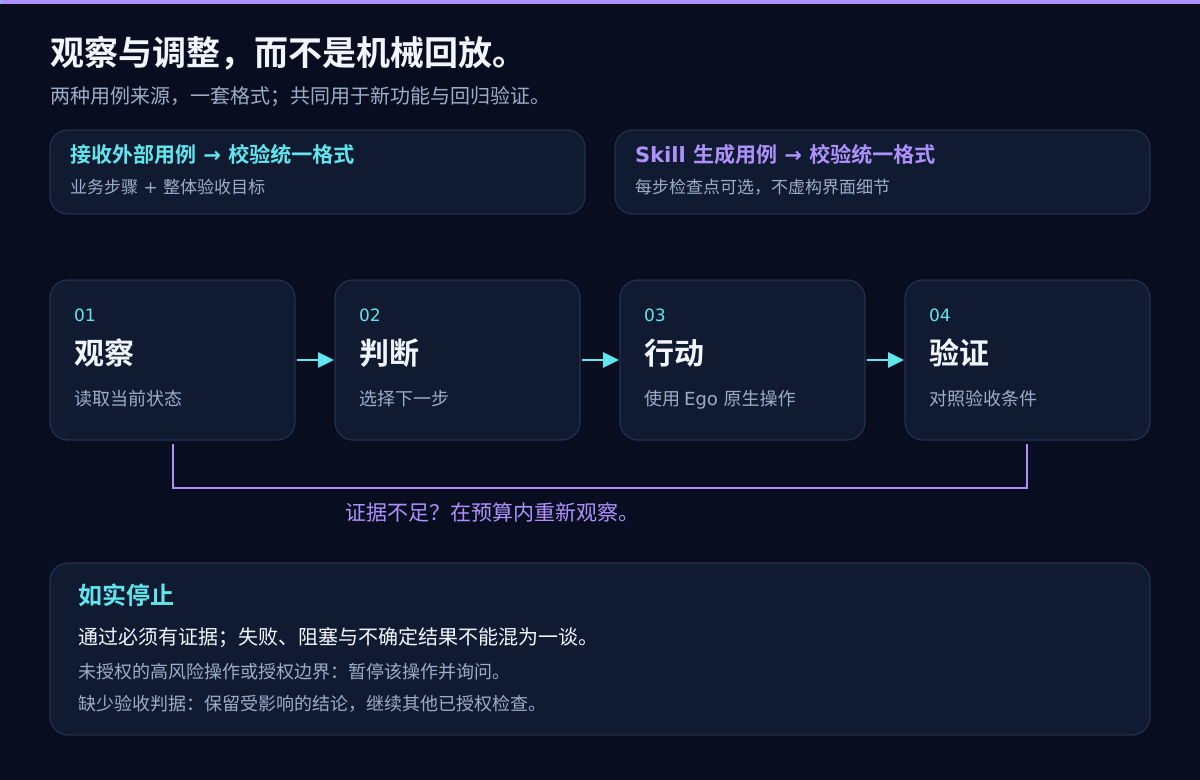
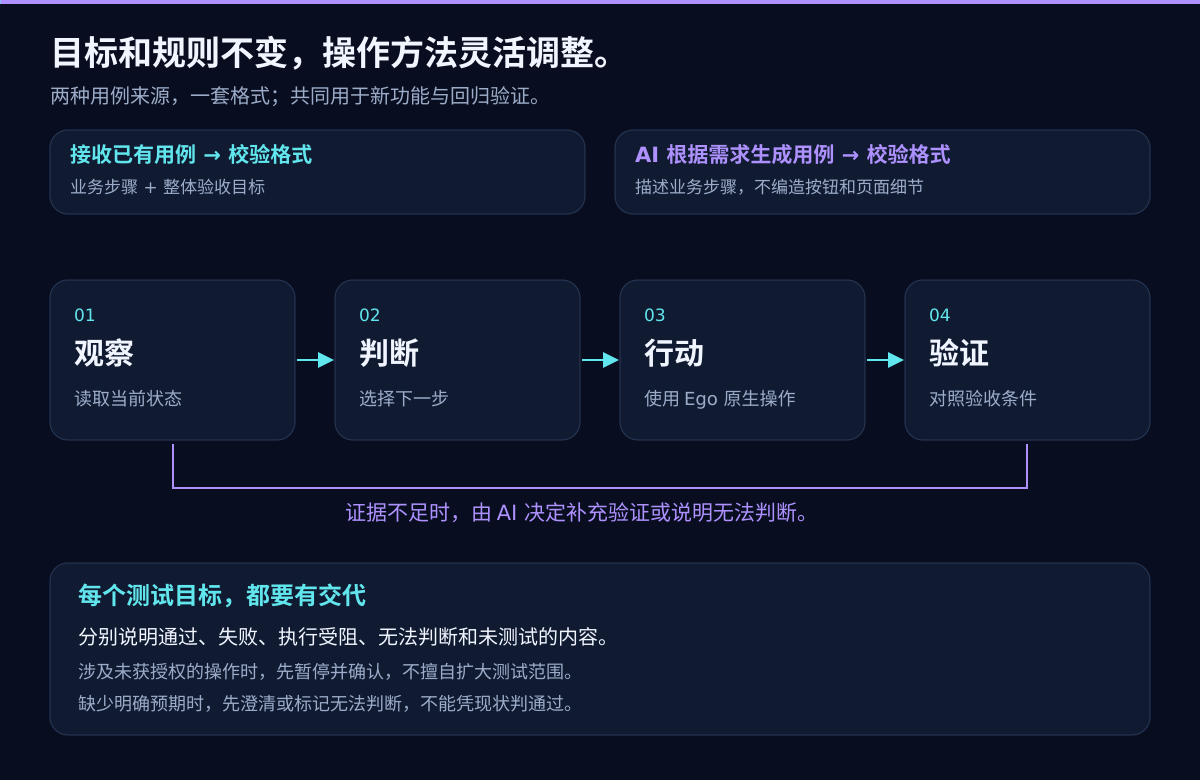
docs: 明确首次上线测试定位并优化中英文介绍图

diff --git a/docs/images/render.py b/docs/images/render.py
@@ -21,30 +21,30 @@ for zh in [False,True]:
  suffix='.zh-CN' if zh else ''
  def t(en,cn):return cn if zh else en
  p=start('Ego Lite Test Skill',540)
- p += [text(54,64,'EGO LITE / TEST SKILL',19,'cyan',700),text(54,136,t('Intent stays stable.','目标稳定。'),48,'text',700),text(54,198,t('The path can adapt.','路径可以自适应。'),48,'text',700),text(56,246,t('Model-led testing. Native browser actions. Reviewable evidence.','模型自主决策 · 原生浏览器操作 · 可复核证据'),20,'muted')]
- p += [rect(56,294,1088,150),text(82,332,t('01  DEFINE','01  定义'),16,'cyan',700),text(82,370,t('Goals + acceptance','目标与验收条件'),23),text(82,403,t('Project-owned resources','项目维护的测试资源'),17,'muted'),text(455,332,t('02  ADAPT','02  自适应'),16,'violet',700),text(455,370,t('Observe → decide → act','观察 → 判断 → 行动'),23),text(455,403,t('Current Codex model + Ego','当前 Codex 模型 + Ego'),17,'muted'),text(835,332,t('03  VERIFY','03  验证'),16,'cyan',700),text(835,370,t('Evidence + verdict','证据与结论'),23),text(835,403,t('Uncertainty stays visible','明确保留不确定性'),17,'muted'),line(355,370,420,370),line(735,370,800,370),text(56,498,t('EXPERIMENTAL 0.1.3-dev  /  UNOFFICIAL  /  WINDOWS + EGO VALIDATION PENDING','实验版 0.1.3-dev  /  非官方项目  /  Windows + Ego 实机验证待完成'),16,'muted')]
+ p += [text(54,64,'EGO LITE / TEST SKILL',19,'cyan',700),text(54,136,t('Test new features.','新功能首次交付，'),48,'text',700),text(54,198,t('Let AI plan the checks.','让 AI 自主规划测试。'),48,'text',700),text(56,246,t('New web projects and feature launches. Rules, actions, and evidence.','面向新项目上线前、新功能交付时的 Web 业务验证'),20,'muted')]
+ p += [rect(56,294,1088,150),text(82,332,t('01  PREPARE','01  准备测试依据'),16,'cyan',700),text(82,370,t('Goals + acceptance','目标与验收条件'),23),text(82,403,t('Requirements and cases','需求、业务规则与用例'),17,'muted'),text(455,332,t('02  EXPLORE','02  AI 自主执行'),16,'violet',700),text(455,370,t('Plan → explore → test','规划 → 探索 → 测试'),23),text(455,403,t('Current AI session + Ego','当前 AI 会话 + Ego'),17,'muted'),text(835,332,t('03  REVIEW','03  核验与交付'),16,'cyan',700),text(835,370,t('Evidence + verdict','证据与结论'),23),text(835,403,t('Show gaps and evidence','说明证据与未验证项'),17,'muted'),line(355,370,420,370),line(735,370,800,370),text(56,498,t('0.1.3-dev  /  INDEPENDENT PROJECT  /  BUSINESS ACCEPTANCE PENDING','开发版 0.1.3-dev  /  独立项目  /  业务能力待用户验收'),16,'muted')]
  save('hero'+suffix,p)
  p=start(t('Who owns what?','谁负责什么？'),650)
- p += [text(50,65,t('A small skill. Clear boundaries.','轻量 Skill，清晰边界。'),35,'text',700),text(50,103,t('No second model service. No browser engine inside the helper.','不另建模型服务，不在辅助工具中重造浏览器引擎。'),20,'muted')]
- cards=[(430,'02',t('Current Codex model','当前 Codex 模型'),[t('Interprets the requirement','理解测试需求'),t('Chooses the next action','选择下一步动作'),t('Evaluates evidence','判断证据是否充分')],'cyan'),(50,'01',t('Skill + project resources','Skill + 项目资源'),[t('Boundaries and acceptance','授权边界与验收条件'),t('Fixtures and reusable context','测试数据与可复用上下文'),t('Optional artifact helper','可选：运行产物辅助工具')],'violet'),(810,'03',t('Ego native browser','Ego 原生浏览器'),[t('Reads the current page','读取当前页面'),t('Performs browser actions','执行浏览器操作'),t('Returns observations','返回页面观察结果')],'cyan')]
+ p += [text(50,65,t('AI decides. Ego operates. Tools keep records.','AI 做判断，Ego 做操作，工具管记录。'),35,'text',700),text(50,103,t('Use the current AI session and Ego. No extra model API service.','复用当前 AI 会话和 Ego 浏览器，不另建模型 API 服务。'),20,'muted')]
+ cards=[(430,'02',t('Current AI session','当前 AI 会话'),[t('Interprets the requirement','理解测试需求'),t('Plans and adapts tests','规划测试并调整操作'),t('Evaluates evidence','判断证据是否充分')],'cyan'),(50,'01',t('Our Skill + test inputs','本项目 Skill + 测试资料'),[t('Boundaries and acceptance','授权边界与验收条件'),t('Requirements, rules, cases','需求、业务规则与用例'),t('Flexible workflow guidance','可灵活调整的流程指南')],'violet'),(810,'03',t('Ego native tools','Ego 原生浏览器能力'),[t('Reads the current page','读取当前页面'),t('Performs browser actions','执行浏览器操作'),t('Returns page state','返回页面信息与截图')],'cyan')]
  for x,n,head,rows,col in cards:
   p += [rect(x,150,340,268),text(x+24,192,n,20,col,700),text(x+24,236,head,22,'text',700)]
   p += [text(x+24,284+i*38,r,19,'muted') for i,r in enumerate(rows)]
- p += [line(390,276,428,276),line(770,260,808,260),line(808,302,770,302),text(78,444,t('Provides context →','提供上下文 →'),16,'violet'),text(454,444,t('Decisions ↔ browser observations','模型决策 ↔ 浏览器观察'),16,'cyan'),rect(50,462,1100,130),text(78,503,t('The helper owns files, not decisions.','辅助工具管理文件，不替模型决策。'),23,'cyan',700),text(78,543,t('init / start / check / report never launch a model or a browser.','init / start / check / report 不启动模型，也不启动浏览器。'),21),text(78,574,t('Observed UI state is evidence, not an independent business oracle.','页面观察是证据，不是独立的业务正确性判定器。'),18,'muted')]
+ p += [line(390,276,428,276),line(770,260,808,260),line(808,302,770,302),text(78,444,t('Supplies rules and goals →','提供规则与测试目标 →'),16,'violet'),text(454,444,t('Choose actions ↔ inspect results','选择操作 ↔ 读取结果'),16,'cyan'),rect(50,462,1100,130),text(78,503,t('Our local toolbox records evidence and builds reports.','本项目工具箱：登记证据、保存结果、生成报告。'),23,'cyan',700),text(78,543,t('File checks do not decide whether a business feature is correct.','工具校验文件和记录，不替 AI 判定业务是否正确。'),21),text(78,574,t('A successful click is not proof that the requirement was met.','操作成功不等于测试通过，仍需对照预期核验结果。'),18,'muted')]
  save('architecture'+suffix,p)
  p=start(t('Adaptive test workflow','自适应测试流程'),780)
- p += [text(50,65,t('A loop, not a recorded click sequence.','观察与调整，而不是机械回放。'),34,'text',700),text(50,103,t('Two input sources. One case format. New features and regression.','两种用例来源，一套格式；共同用于新功能与回归验证。'),20,'muted')]
- p += [rect(50,130,535,84),text(70,162,t('External cases → validate format','接收外部用例 → 校验统一格式'),21,'cyan',700),text(70,193,t('Business steps + overall acceptance','业务步骤 + 整体验收目标'),17,'muted'),rect(615,130,535,84),text(635,162,t('Skill authors cases → validate format','Skill 生成用例 → 校验统一格式'),21,'violet',700),text(635,193,t('Optional step checkpoints, no invented UI','每步检查点可选，不虚构界面细节'),17,'muted'),'<g transform="translate(0 120)">']
+ p += [text(50,65,t('Stable goals. Flexible execution.','目标和规则不变，操作方法灵活调整。'),34,'text',700),text(50,103,t('Two input sources. One case format. New features and regression.','两种用例来源，一套格式；共同用于新功能与回归验证。'),20,'muted')]
+ p += [rect(50,130,535,84),text(70,162,t('External cases → validate format','接收已有用例 → 校验格式'),21,'cyan',700),text(70,193,t('Business steps + overall acceptance','业务步骤 + 整体验收目标'),17,'muted'),rect(615,130,535,84),text(635,162,t('AI drafts cases → validate format','AI 根据需求生成用例 → 校验格式'),21,'violet',700),text(635,193,t('Business steps, not invented buttons','描述业务步骤，不编造按钮和页面细节'),17,'muted'),'<g transform="translate(0 120)">']
  heads=[t('Observe','观察'),t('Decide','判断'),t('Act','行动'),t('Verify','验证')]
  subs=[t('Read current state','读取当前状态'),t('Choose next step','选择下一步'),t('Use native Ego','使用 Ego 原生操作'),t('Compare with criteria','对照验收条件')]
  for i in range(4):
   x=50+i*285;p += [rect(x,160,245,160),text(x+24,201,'0'+str(i+1),17,'cyan'),text(x+24,244,heads[i],30,'text',700),text(x+24,285,subs[i],18,'muted')]
   if i<3:p += [line(x+247,240,x+282,240)]
- p += ['<path d="M1027,324 V368 H173 V324" fill="none" stroke="#ae91ff" stroke-width="2"/>',text(345,400,t('Need more evidence? Re-observe, within budget.','证据不足？在预算内重新观察。'),21,'violet')]
- p += [rect(50,443,1100,172),text(78,484,t('Stop honestly','如实停止'),24,'cyan',700),text(78,524,t('Pass only with evidence. Failure, blockers, and uncertainty are separate outcomes.','通过必须有证据；失败、阻塞与不确定结果不能混为一谈。'),20),text(78,558,t('Unapproved high-risk action or permission boundary → pause that action and ask.','未授权的高风险操作或授权边界：暂停该操作并询问。'),18,'muted'),text(78,590,t('Missing oracle → withhold the affected verdict; continue other authorized checks.','缺少验收判据：保留受影响的结论，继续其他已授权检查。'),18,'muted')]
+ p += ['<path d="M1027,324 V368 H173 V324" fill="none" stroke="#ae91ff" stroke-width="2"/>',text(345,400,t('AI may gather more evidence or report uncertainty.','证据不足时，由 AI 决定补充验证或说明无法判断。'),21,'violet')]
+ p += [rect(50,443,1100,172),text(78,484,t('Account for every test goal','每个测试目标，都要有交代'),24,'cyan',700),text(78,524,t('Report passed, failed, blocked, uncertain, and untested items separately.','分别说明通过、失败、执行受阻、无法判断和未测试的内容。'),20),text(78,558,t('Pause actions that need permission; do not expand the test scope silently.','涉及未获授权的操作时，先暂停并确认，不擅自扩大测试范围。'),18,'muted'),text(78,590,t('If acceptance criteria are missing, ask or mark the outcome as uncertain.','缺少明确预期时，先澄清或标记无法判断，不能凭现状判通过。'),18,'muted')]
  p += ['</g>']
  save('workflow'+suffix,p)
  p=start(t('Illustrative evidence specimen, not a real run','证据展示示意，非真实运行结果'),620)
- p += [text(50,59,'ILLUSTRATIVE / NOT A REAL RUN',18,'violet',700),text(50,109,t('An honest result is more than a green badge.','可信结果，不只是一枚绿色徽章。'),33,'text',700),rect(50,145,1100,395),text(78,190,t('CASE  /  Catalog search','用例  /  商品目录搜索'),24,'text',700),text(78,228,t('Expected: every visible result matches the requested category.','预期：当前可见结果均符合请求的分类。'),20,'muted')]
- p += [rect(78,261,500,188,'bg'),text(100,300,t('OBSERVED','观察所得'),15,'cyan',700),text(100,342,t('The result list is visible.','结果列表已显示。'),23),text(100,381,t('Visible labels were inspected.','已检查当前可见的标签。'),20,'muted'),text(100,418,t('Evidence reference: sanitized page capture','证据引用：已脱敏的页面记录'),17,'muted'),rect(602,261,520,188,'bg'),text(624,300,t('NOT ESTABLISHED','尚未证实'),15,'violet',700),text(624,342,t('Backend data correctness.','后端数据是否正确。'),23),text(624,381,t('Unseen or paginated records.','未显示或位于后续分页的记录。'),20,'muted'),text(624,418,t('No evidence → no wider claim','没有证据，不扩大结论'),17,'muted'),text(78,496,t('Verdict: needs review until the acceptance evidence is sufficient.','结论：验收证据充分之前，仍需复核。'),22,'cyan'),text(50,583,t('Synthetic design specimen only. No product execution, screenshot, or benchmark is represented.','仅为人工设计示意，不代表产品实测、真实截图或基准测试。'),17,'muted')]
+ p += [text(50,59,t('ILLUSTRATION / NOT A REAL TEST','报告内容示意 / 非真实测试结果'),18,'violet',700),text(50,109,t('Show why the result is supported.','不只告诉你结果，还要说清判断依据。'),33,'text',700),rect(50,145,1100,395),text(78,190,t('CASE  /  Filter products by category','用例 / 按分类筛选商品'),24,'text',700),text(78,228,t('Expected: visible results belong to the selected category.','预期：当前展示的商品都属于所选分类。'),20,'muted')]
+ p += [rect(78,261,500,188,'bg'),text(100,300,t('OBSERVED','实际观察'),15,'cyan',700),text(100,342,t('The result list is visible.','结果列表已显示。'),23),text(100,381,t('Visible categories match the selection.','当前商品分类与筛选条件一致。'),20,'muted'),text(100,418,t('Evidence: saved page capture, if available','证据：对应页面截图（如已保存）'),17,'muted'),rect(602,261,520,188,'bg'),text(624,300,t('NOT COVERED','本次未覆盖'),15,'violet',700),text(624,342,t('Database consistency.','数据库内容是否一致。'),23),text(624,381,t('Results on other pages.','其他分页中的商品。'),20,'muted'),text(624,418,t('No evidence → no wider claim','没有证据，不扩大结论'),17,'muted'),text(78,496,t('Scope: visible results only; do not infer untested behavior.','结论范围：仅针对当前可见结果，不推断未测试部分。'),22,'cyan'),text(50,583,t('Synthetic design specimen only. No product execution, screenshot, or benchmark is represented.','仅为人工设计示意，不代表产品实测、真实截图或基准测试。'),17,'muted')]
  save('result-specimen'+suffix,p)

diff --git a/README.en.md b/README.en.md
@@ -1,14 +1,20 @@
-<p align="center"><img src="docs/images/hero.png" alt="Ego Lite Test Skill: intent stays stable, the route can adapt. Experimental and unofficial; Windows and Ego validation pending." width="100%"></p>
+<p align="center"><img src="docs/images/hero.png" alt="Ego Lite Test Skill for new web projects and first feature deliveries. AI plans tests against business rules." width="100%"></p>
 
 # Ego Lite Test Skill
 
 <p align="center"><strong>English</strong> · <a href="README.md">简体中文</a><br><a href="#quick-start-on-windows">Quick start</a> · <a href="docs/architecture.en.md">Architecture</a> · <a href="docs/asset-formats.en.md">Format and commands</a> · <a href="docs/privacy.md">Privacy</a> · <a href="docs/testing.en.md">Validation</a></p>
 
-**The current AI session understands requirements and plans tests, using Ego's native browser capability to explore the application.** This project preserves requirement provenance, observations, uncertainty, and a local evidence index. It does not treat a successful click as proof of business correctness.
+**An AI-led Web testing Skill for new projects before their first launch and new features at their first delivery.** The current AI session analyzes requirements, plans tests, explores the application through Ego Lite, and checks outcomes against business rules and expectations. Observations and evidence make conclusions reviewable, rather than reducing them to a success/failure badge.
+
+An existing automated test suite is not required. Supply prepared cases, or provide requirements, business rules, and acceptance expectations so the AI can draft cases in the Skill format. The AI may adapt its actions, gather more evidence, and adjust execution order while preserving goals, expectations, dependencies, and permission boundaries.
+
+First launch is a target use case, not a promise to infer missing rules or guarantee release readiness. Missing requirements need clarification, and insufficient evidence must remain uncertain. Existing-feature regression is also supported.
 
 **Development version 0.1.3-dev.** This independent project is not affiliated with or endorsed by Ego. v0.1.3-dev uses schemaVersion 3 in place of v0.1.2's schemaVersion 2. This is an intentional format change; no migration command is provided. Linux synthetic checks passed 56/56; Windows synthetic checks passed 52 tests with zero failures and 4 skips caused by symlink permissions. Real-browser interactions, Ego, and business capabilities still await acceptance. See the [validation record](docs/testing.en.md).
 
 ## Cases and judgments
+
+![AI-led workflow: receive or draft cases, adapt execution, and account for every goal.](docs/images/workflow.png)
 
 External cases and cases drafted by the Skill can support new-feature testing and regression. Cases describe business intent and necessary input. The current AI chooses an authorized execution route from the page it observes. `strict` preserves business-step order. `adaptive` may adjust a route or order only when intent, prerequisites, and coverage remain intact.
 
@@ -98,6 +104,8 @@ Invoke-Item (Join-Path $Run 'report.html')
 Progress counts each frozen case's **current final status**. `blocked`, `inconclusive`, and `not_run` stay separate; pending clarifications have their own list. Historical attempts are not counted again as current pass/fail outcomes. `report` writes `report.json`, `report.md`, and a standalone offline `report.html` in the run directory; it refuses to overwrite any of them. The HTML shows frozen goals, critical conditions, required path, order policy, observations, rationale, requirement basis, unverified items, each attempt and its remaining questions, and evidence source/SHA-256 metadata. Hash/size-verified PNG, JPEG, and WebP screenshots are embedded; missing, unsupported, or browser-undecodable images are called out without substituting an image. You can copy `report.html` by itself for an authorized reviewer; it does not need the run directory or network access. See the [schema v3 format and runtime contract](docs/asset-formats.en.md).
 
 Business outcomes and file integrity are shown separately. A matching SHA-256 does not prove a screenshot is authentic or an outcome is correct. Before writing any report, the helper validates the run and every registered evidence file; a failed check writes no report. No image does not automatically mean failure; the AI decides whether more evidence or testing is needed under the user's authorization. A successful click or enabled button does not prove a submission succeeded; observe the actual result and persistence when required.
+
+![Illustrative report content, not an actual test report screenshot.](docs/images/result-specimen.png)
 
 ## Responsibilities and limits
 

diff --git a/README.md b/README.md
@@ -1,14 +1,20 @@
-<p align="center"><img src="docs/images/hero.zh-CN.png" alt="Ego Lite 自主测试 Skill：目标稳定，路径可以自适应。实验版、非官方；Windows 与 Ego 实机验证待完成。" width="100%"></p>
+<p align="center"><img src="docs/images/hero.zh-CN.png" alt="Ego Lite 自主测试 Skill：面向新项目上线前和新功能首次交付的 Web 测试。由 AI 自主规划，按业务规则验证。" width="100%"></p>
 
 # Ego Lite 自主测试 Skill
 
 <p align="center"><a href="README.en.md">English</a> · <strong>简体中文</strong><br><a href="#windows-快速开始">快速开始</a> · <a href="docs/architecture.md">架构</a> · <a href="docs/asset-formats.md">格式与命令</a> · <a href="docs/privacy.md">隐私保护</a> · <a href="docs/testing.md">验证状态</a></p>
 
-**由当前 AI 会话理解需求并规划测试，通过 Ego 原生浏览器能力探索页面。** 本项目保留需求依据、观察、不确定性和本地证据索引；不会把“点击成功”直接判为业务正确。
+**面向新项目首次上线前、新功能首次交付时的 Web 自动化测试 Skill。** 由当前 AI 会话自主分析需求、规划测试，并通过 Ego Lite 浏览器探索页面、执行用例，对照业务规则和预期结果完成验证。保留实际观察与证据，让测试结论可以复核，而不只是给出“成功 / 失败”。
+
+不要求项目已经积累自动化测试脚本。你可以提供现成用例，也可以提供需求、业务规则和验收预期，由 AI 按本 Skill 的格式整理用例。AI 可以灵活选择操作方法、补充验证和调整执行顺序，但不能改写测试目标、降低预期或越过授权边界。
+
+这里的“首次上线”是重点使用场景，不代表可以从空白信息推断全部业务规则，也不承诺测试通过就能安全上线；缺失的要求需要澄清，证据不足的结论必须保留不确定性。它也可用于已有功能的回归验证。
 
 **开发版 0.1.3-dev。** 本项目独立开发，非 Ego 官方项目，未获 Ego 背书。v0.1.3-dev 使用 schemaVersion 3，替代 v0.1.2 的 schemaVersion 2；这是有意的格式变更，不提供迁移命令。Linux 合成测试 56/56 通过；Windows 本地合成测试 52 项通过、0 失败、4 项因符号链接权限跳过。真实浏览器交互、Ego 和业务能力仍待验收。详见[验证记录](docs/testing.md)。
 
 ## 用例与判断
+
+![测试方式：接收或生成用例，由 AI 按业务目标自主执行，并如实说明所有测试结果。](docs/images/workflow.zh-CN.png)
 
 外部用例和 Skill 按需求整理的用例均可用于新功能与回归。用例以业务意图和必要输入描述步骤；当前 AI 根据实际页面选择被授权的执行路径。`strict` 保留业务步骤顺序，`adaptive` 只允许在不改变意图、前提与覆盖时调整路径或顺序。
 
@@ -98,6 +104,8 @@ Invoke-Item (Join-Path $Run 'report.html')
 进度按冻结用例的**当前最终状态**统计；`blocked`、`inconclusive`、`not_run` 分开列出，pending clarification 单独列出。历史尝试不重复计入当前 pass/fail。`report` 会在 Run 目录写出 `report.json`、`report.md` 和可独立离线打开的 `report.html`；任一目标已存在都会拒绝覆盖。HTML 展示冻结目标、关键条件、必经路径、顺序策略、实际观察、判断理由、依据、未验证项、逐条尝试及其未决问题、证据来源和 SHA-256。经过 hash / 大小核验的 PNG、JPEG、WebP 截图内嵌显示；缺图、不支持格式或浏览器无法解码会明确提示，不生成替代图片。可把 `report.html` 单独复制给获准查看报告的人，不需要连同 Run 或联网打开。完整内容见[格式与运行约定](docs/asset-formats.md)。
 
 报告会分开显示业务结论和文件完整性；SHA-256 匹配不证明截图真实或结果正确。HTML 生成前会完整校验 run 与所有登记证据；若校验失败，不写出任何报告。没有图片不会自动变成失败；业务覆盖、判断以及是否需要补证仍由 AI 根据授权与事实决定。点击成功或按钮变为 enabled 不足以证明提交成功，需观察实际后果和必要的持久化状态。
+
+![报告内容示意：说明预期、实际观察、证据与未覆盖范围；不是实际测试报告截图。](docs/images/result-specimen.zh-CN.png)
 
 ## 责任与限制
 

diff --git a/CHANGELOG.md b/CHANGELOG.md
@@ -2,6 +2,9 @@
 
 ## 0.1.3-dev — 本地证据与结果工具箱
 
+- 明确首要场景为新项目首次上线前、新功能首次交付时的 Web 业务验证；区分 AI 自主规划能力与上线质量保证，同步中英文介绍。
+- 重写四组介绍图的中文业务表述与英文说明，更新开发版和验收边界；README 加入流程图与报告内容示意。示意图不代表真实测试截图。
+
 - 增加 `evidence-add`，从本地普通文件安全复制到 run 的 `evidence/`，按留存副本计算 SHA-256 与字节数，并分别记录工具登记时间 `collectedAt` 和可选来源时间 `capturedAt`。
 - 增加 revision 化 `record` 与 `progress`。最终状态与历史尝试分开，保留被替换的旧最终观察；进度只统计当前状态并单独列出待澄清用例。
 - 使用 run 级单写者锁、expectedRevision、canonical payload hash 与操作回执。相同 operation ID 和内容重试幂等；内容变更和过期 revision 拒绝。证据登记使用恢复 marker；单文件 rename 不声明为多文件事务或断电持久性保证。
